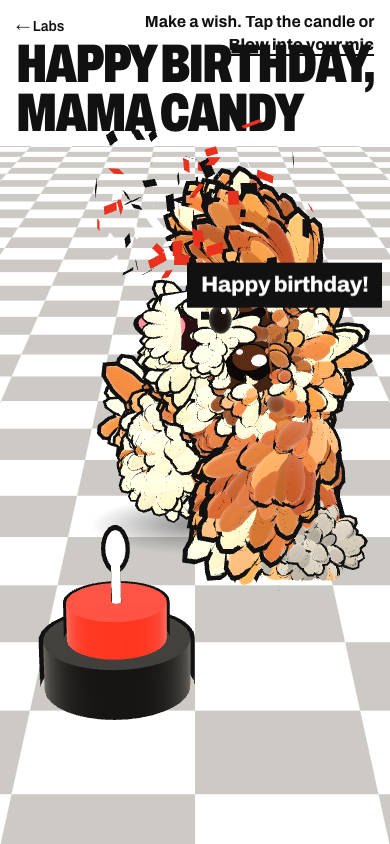
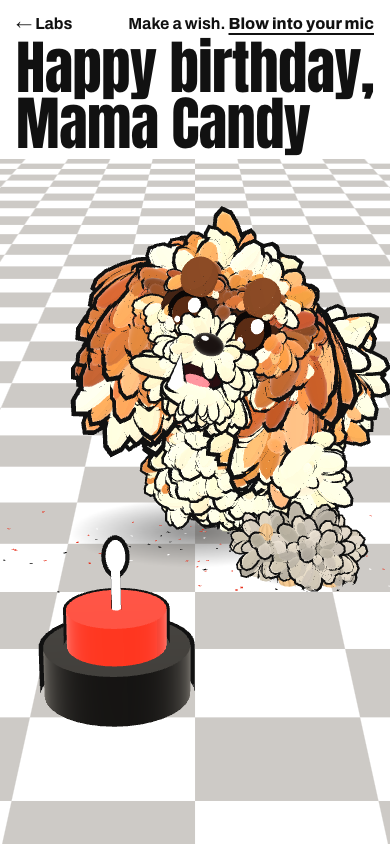
birthday-dog: behind-the-design page, corner link that slides in, index entry with cover, docs

diff --git a/birthday-dog/direction/index.html b/birthday-dog/direction/index.html
@@ -1,0 +1,171 @@
+<!doctype html>
+<html lang="en">
+<head>
+<meta charset="utf-8">
+<meta name="viewport" content="width=device-width, initial-scale=1, viewport-fit=cover">
+<meta name="theme-color" content="#07070a">
+<meta name="robots" content="noindex">
+<meta name="description" content="Behind the design of the birthday card for Mama Candy: three style directions, one winner, and a lot of fiddling with a shih tzu's leg.">
+<title>Behind the design · Chuck Rice Labs</title>
+<link rel="preconnect" href="https://fonts.googleapis.com">
+<link rel="preconnect" href="https://fonts.gstatic.com" crossorigin>
+<link href="https://fonts.googleapis.com/css2?family=Instrument+Serif:ital@0;1&family=JetBrains+Mono:wght@400;500&display=swap" rel="stylesheet">
+<style>
+:root { --bg:#07070a; --ink:#e8e6df; --dim:#8b8a93; --line:rgba(255,255,255,0.10); --serif:'Instrument Serif', Georgia, serif; --mono:'JetBrains Mono', ui-monospace, Menlo, monospace; }
+* { box-sizing: border-box; }
+html { background: var(--bg); color-scheme: dark; }
+body { margin: 0; min-height: 100vh; background: var(--bg); color: var(--ink); font: 400 14px/1.6 var(--mono); -webkit-font-smoothing: antialiased; }
+a { color: inherit; }
+:focus-visible { outline: 1px solid var(--ink); outline-offset: 3px; }
+.wrap { max-width: 720px; margin: 0 auto; padding: calc(env(safe-area-inset-top, 0px) + 20px) max(20px, env(safe-area-inset-right, 0px)) calc(env(safe-area-inset-bottom, 0px) + 56px) max(20px, env(safe-area-inset-left, 0px)); }
+.top { display: flex; justify-content: space-between; gap: 16px; font-size: 11px; letter-spacing: .16em; text-transform: uppercase; }
+.top a { color: var(--dim); text-decoration: none; transition: color .2s; }
+.top a:hover { color: var(--ink); }
+h1 { margin: clamp(48px, 10vw, 96px) 0 0; font: italic 400 clamp(44px, 9vw, 84px)/0.95 var(--serif); letter-spacing: -0.01em; text-wrap: balance; }
+.lede { margin: 24px 0 0; max-width: 54ch; color: var(--dim); font-size: 17px; line-height: 1.55; }
+section { margin-top: 44px; padding-top: 22px; border-top: 1px solid var(--line); }
+.n { font-size: 11px; letter-spacing: .16em; color: var(--dim); }
+h2 { margin: 6px 0 12px; font: italic 400 clamp(26px, 5vw, 34px)/1.1 var(--serif); }
+p { margin: 0 0 12px; max-width: 62ch; }
+ul { margin: 0 0 12px; padding-left: 1.2em; max-width: 62ch; }
+li { margin: 0 0 6px; }
+.say { color: var(--dim); font-size: 12px; }
+.say b { color: var(--ink); font-weight: 500; }
+figure { margin: 22px 0 8px; }
+figure img { display: block; width: 100%; height: auto; border: 1px solid var(--line); border-radius: 7px; background: rgba(14,14,19,.6); }
+figcaption { margin-top: 8px; color: var(--dim); font-size: 12px; max-width: 62ch; }
+.pair { display: grid; grid-template-columns: 1fr; gap: 14px; margin: 22px 0 8px; }
+.pair figure { margin: 0; }
+.three { display: grid; grid-template-columns: repeat(3, 1fr); gap: 12px; margin: 22px 0 8px; }
+.three figure { margin: 0; }
+@media (min-width: 620px) { .pair { grid-template-columns: 3fr 1fr; align-items: end; } }
+@media (max-width: 560px) { .lede { font-size: 15px; } .three { grid-template-columns: 1fr; } }
+.actions { display: flex; flex-wrap: wrap; gap: 14px 28px; margin-top: 44px; }
+.go { display: inline-block; font-size: 11px; letter-spacing: .16em; text-transform: uppercase; text-decoration: none; border-bottom: 1px solid rgba(255,255,255,.25); padding-bottom: 3px; }
+.go:hover { border-color: var(--ink); }
+footer { display: flex; justify-content: flex-end; margin-top: 40px; color: var(--dim); font-size: 11px; letter-spacing: .08em; }
+@media (prefers-reduced-motion: no-preference) { @view-transition { navigation: auto; } }
+::view-transition-old(root), ::view-transition-new(root) { animation-duration: .32s; }
+</style>
+</head>
+<body>
+<div class="wrap">
+  <nav class="top" aria-label="Primary">
+    <a href="../../">&larr; Labs</a>
+    <a href="../">The card &rarr;</a>
+  </nav>
+
+  <h1>Behind the design.</h1>
+  <p class="lede">A birthday card for Mama Candy, with Otto the shih tzu on it. The brief was one sentence: a rich, interactive card with a good 3D dog that reacts to you. Most of the work was working out what kind of card, then fiddling with a leg.</p>
+
+  <figure>
+    <img src="shots/04-pop-refined-desktop.png" alt="The finished card: a checkerboard floor, a cartoon shih tzu mid-bark with a Happy birthday speech bubble, and a lit cake at the bottom left" width="1280" height="800" loading="lazy">
+    <figcaption>Where it ended up. The candle is already lit when the page opens, and Otto sits side-on with his front left leg out.</figcaption>
+  </figure>
+
+  <section>
+    <div class="n">01</div>
+    <h2>Three directions first</h2>
+    <p>I didn't want to start from "a dog on a page". I gave the style question to the taste skill, a design rulebook for coding agents, and asked for three directions. Its rules did the useful boring work: one ground, one ink, one accent, big type, no decoration for decoration's sake. Three builds ran side by side, each with the same dog and the same brief, so the only thing that changed was the look.</p>
+    <div class="three">
+      <figure>
+        <img src="shots/01-checkerboard-pop-mobile.png" alt="Checkerboard Pop on a phone" width="390" height="844" loading="lazy">
+        <figcaption><b>Checkerboard Pop.</b> The rug from the photo as the stage. Flat, loud, one red.</figcaption>
+      </figure>
+      <figure>
+        <img src="shots/02-golden-hour-mobile.png" alt="Golden Hour Living Room on a phone" width="390" height="844" loading="lazy">
+        <figcaption><b>Golden Hour.</b> The lamp-lit sofa moment. Soft light, the most realistic fur.</figcaption>
+      </figure>
+      <figure>
+        <img src="shots/03-void-party-mobile.png" alt="Void Party on a phone" width="390" height="844" loading="lazy">
+        <figcaption><b>Void Party.</b> Same void as the rest of these labs, the dog floating like a cape.</figcaption>
+      </figure>
+    </div>
+    <p class="say"><b>Rule:</b> don't pick a style from a description. Build all of them and look.</p>
+  </section>
+
+  <section>
+    <div class="n">02</div>
+    <h2>Why Pop won</h2>
+    <p>Golden Hour was the prettiest and the most realistic, and it was too polite. Void Party was the safest because it matched everything else here. Pop was the one that made me smile on first load, which for a birthday card is the whole job. It also has a reason to exist: the checkerboard is lifted straight from the rug in the photo.</p>
+    <div class="pair">
+      <figure>
+        <img src="shots/01-checkerboard-pop-desktop.png" alt="First version of Checkerboard Pop on desktop, with a black and white floor and a large black dialog panel" width="1280" height="800" loading="lazy">
+        <figcaption>The first Pop. Bold, but the black floor shouted over the dog and the dialog box got in the way.</figcaption>
+      </figure>
+      <figure>
+        <img src="shots/01-checkerboard-pop-mobile.png" alt="First version of Checkerboard Pop on a phone" width="390" height="844" loading="lazy">
+      </figure>
+    </div>
+    <p class="say"><b>Rule:</b> pick the one you smile at, then fix what's loud.</p>
+  </section>
+
+  <section>
+    <div class="n">03</div>
+    <h2>Quieter floor, no dialog</h2>
+    <p>Two things bothered me straight away. The checkerboard was too harsh, so the squares got about twice as big and the dark ones went to a warm pale grey. And the dialog box with its buttons felt like a form on a birthday card.</p>
+    <p>It's gone. Instead a cake peeks up from the bottom edge. Tap the bottom of the screen and it slides in diagonally from the corner and the dog sits down to look at it. The cake is the button.</p>
+    <p class="say"><b>Rule:</b> if the interface is a box of buttons, hide it inside the scene.</p>
+  </section>
+
+  <section>
+    <div class="n">04</div>
+    <h2>Making it look like Otto</h2>
+    <p>The first dog was a very fluffy popcorn ball. Better than nothing, but not a shih tzu. A few rounds of notes fixed the face:</p>
+    <ul>
+      <li>More fluff around the eyes, so he looks like he's peeping out of it.</li>
+      <li>An underbite, which I then asked to be a bit less strong.</li>
+      <li>The right canine (on the left as you look at him) poking up over his lip.</li>
+    </ul>
+    <p>Then the body language. When the cake is out he sits, and turns side-on so you see him in profile. When nothing's happening he occasionally sprints off the left edge and comes back in from the right and stops. And Otto has a trademark awkward leg, his front left, so when he sits it sticks straight out sideways. That one took two attempts, because from the front his head covers it. Turning him a bit further towards the cake fixed it.</p>
+    <p class="say"><b>Rule:</b> the specific, slightly wrong detail is the likeness.</p>
+  </section>
+
+  <section>
+    <div class="n">05</div>
+    <h2>Candle lit, mic ready</h2>
+    <p>The card opens with the candle already lit, so you don't have to work out what to do. You can blow it out by tapping the cake, or press "Blow into your mic" and actually blow. The browser only asks for the microphone when you press that button. Blow it out and there's confetti, a bark and a fresh wish.</p>
+    <p>The toy was too hard to grab, so touching anywhere near it now counts, not just the plush itself.</p>
+    <p class="say"><b>Rule:</b> be generous with where a finger lands.</p>
+  </section>
+
+  <section>
+    <div class="n">06</div>
+    <h2>Floor, paws and a slider</h2>
+    <p>Sitting made his paws sink into the floor. Instead of lowering the floor (which would have meant moving the cake and the toy too) I lifted the dog. I couldn't judge the height by eye from a description, so I added two sliders, one for sitting and one for standing, and I set them by hand: 0.35 sitting, 0.3 standing. Then the sliders came out.</p>
+    <figure>
+      <img src="shots/05-height-tuning-sliders-desktop.png" alt="The card with two height sliders at the bottom left reading 0.35 and 0.30" width="1280" height="800" loading="lazy">
+      <figcaption>The temporary sliders, with the numbers that stuck. The dog is mid-jump from the opening hello.</figcaption>
+    </figure>
+    <p class="say"><b>Rule:</b> when you can't describe it, give yourself a knob.</p>
+  </section>
+
+  <section>
+    <div class="n">07</div>
+    <h2>Five fonts, then Anton</h2>
+    <p>The headline began in a heavy condensed grotesk, Archivo. I asked for five alternatives, picked by the same rules (one family, tight tracking, two lines at every width), and added a preview with a caps toggle so I could compare them on the real page. Anton in sentence case won: tall, loud, and friendlier in lowercase. The Labs link and the hint line up along the top now, and the hint is shortened to "Make a wish. Blow into your mic" so it fits on a phone.</p>
+    <div class="pair">
+      <figure>
+        <img src="shots/06-font-picker-anton-sentence-desktop.png" alt="The font picker at the bottom right with Anton selected and the headline in sentence case" width="1280" height="800" loading="lazy">
+        <figcaption>The picker, with Anton in sentence case selected.</figcaption>
+      </figure>
+      <figure>
+        <img src="shots/06-font-picker-anton-sentence-mobile.png" alt="The same on a phone" width="390" height="844" loading="lazy">
+      </figure>
+    </div>
+    <p class="say"><b>Rule:</b> choose a typeface on the real page, not in a specimen.</p>
+  </section>
+
+  <section>
+    <div class="n">08</div>
+    <h2>What it is, and isn't</h2>
+    <p>The dog isn't a model. There's no 3D file: Otto is built in code out of a few hundred fluffy tufts, with ears and a tail on springs, so he reacts instead of looping an animation. It's stylised, not anatomical, and that's on purpose.</p>
+    <p>I've only run it in a headless browser so far. The mic path is untested, and I haven't tried it on a real phone yet.</p>
+    <p class="say"><b>Rule:</b> say what you haven't tested.</p>
+  </section>
+
+  <div class="actions"><a class="go" href="../../">&larr; Back to labs</a><a class="go" href="../">The card &rarr;</a></div>
+  <footer>&copy; 2026 Chuck Rice</footer>
+</div>
+</body>
+</html>

diff --git a/birthday-dog/index.html b/birthday-dog/index.html
@@ -39,6 +39,14 @@
   .hint .mic:active{transform:translateY(1px)}
   .hint .mic:focus-visible{outline:3px solid var(--ink);outline-offset:3px}
   .hint .mic[hidden]{display:none}
+  .notes{position:fixed;z-index:5;right:var(--m);bottom:calc(var(--m) * .75);display:inline-block;padding:12px 16px;
+    background:var(--ink);color:var(--paper);font-weight:800;font-size:16px;line-height:1;text-decoration:none;
+    transform:translate(130%,130%);opacity:0;visibility:hidden;
+    transition:transform .45s cubic-bezier(.2,.8,.2,1),opacity .3s ease,visibility 0s linear .45s}
+  .notes.in,.notes:focus-visible{transform:none;opacity:1;visibility:visible;transition:transform .45s cubic-bezier(.2,.8,.2,1),opacity .3s ease,visibility 0s}
+  .notes:hover{background:var(--accent)}
+  .notes:focus-visible{outline:3px solid var(--ink);outline-offset:3px}
+  @media (prefers-reduced-motion:reduce){.notes{transform:none;transition:opacity .2s ease,visibility 0s linear .2s}.notes.in,.notes:focus-visible{transition:opacity .2s ease,visibility 0s}}
   .sr{position:absolute;width:1px;height:1px;overflow:hidden;clip:rect(0 0 0 0);white-space:nowrap}
 
   .bubble{position:fixed;left:0;top:0;z-index:4;pointer-events:none;background:var(--ink);color:#fff;font-weight:800;
@@ -65,6 +73,7 @@
 <div class="bubble" id="bubble" aria-hidden="true">Woof.</div>
 <p id="fallback">Your browser could not draw the dog, so here is the short version: happy birthday, Mama Candy.</p>
 <p class="hint rise" style="--i:3" id="hint"><span id="hintText"></span> <button class="mic" id="micBtn" type="button" hidden>Blow into your mic</button></p>
+<a class="notes" id="notes" href="direction/">Behind the design &rarr;</a>
 <p class="sr" id="status" aria-live="polite"></p>
 
 <script type="importmap">
@@ -1058,6 +1067,20 @@ requestAnimationFrame(frame);
 if (!reduced) setTimeout(() => { jump(1); D.wagBoost = 1.8; say('Happy birthday!', 2); burst(headWorld(), 90, 1); }, 900);
 else setTimeout(() => say('Happy birthday!', 2.5), 600);
 
+/* "Behind the design" slides in from the bottom-right corner while a mouse is near it */
+{
+  const notes = $('notes');
+  let overNotes = false;
+  notes.addEventListener('pointerenter', () => { overNotes = true; });
+  notes.addEventListener('pointerleave', () => { overNotes = false; });
+  addEventListener('pointermove', (e) => {
+    if (e.pointerType !== 'mouse') return;
+    const near = e.clientX > innerWidth - 300 && e.clientY > innerHeight - 170;
+    notes.classList.toggle('in', near || overNotes);
+  });
+  document.addEventListener('pointerleave', () => notes.classList.remove('in'));
+  addEventListener('blur', () => notes.classList.remove('in'));
+}
 window.__pop = { cake, step(n = 1, dt = 1 / 60) { for (let i = 0; i < n; i++) { T += dt; updateToy(dt); updateDog(dt); updateCake(dt); updateConfetti(dt); updateBubble(dt); } renderer.render(scene, camera); }, dog, toy, D, jump, pat, burst, startWish, blowOut, cakeTap, camera, view, CONFIG };
 </script>
 </body>

diff --git a/index.html b/index.html
@@ -178,6 +178,16 @@ var LABS = [
     glows: [['#c98a4e', '30%', '40%'], ['#28d0e6', '70%', '62%']]
   },
   {
+    path: 'birthday-dog/',
+    title: 'Happy Birthday, Mama Candy',
+    blurb: 'A birthday card with Otto on it. Poke him, throw his toy, blow out the candle (you can actually blow). He has a trademark awkward leg.',
+    tags: ['three.js', 'WebGL', 'Made with Sonnet 5.5'],
+    date: '2026-10-22',
+    cover: 'birthday-dog/cover.png',
+    notes: 'birthday-dog/direction/',
+    glows: [['#e8321e', '28%', '70%'], ['#cdcac6', '72%', '34%']]
+  },
+  {
     path: 'hackers-delight/',
     title: 'Hacker\'s Delight',
     blurb: 'A hidden one, for anyone who kept scrolling. It\'s the 404 page: a night sky that draws a confused man out of its own stars.',

diff --git a/CLAUDE.md b/CLAUDE.md
@@ -35,6 +35,13 @@ Interactive RuneScape skill capes (herblore, mining, cooking, magic) drawn as la
 ## windows-pipes lab
 Windows XP 3D Pipes screensaver in raw WebGL2, no dependencies. Instanced cylinders and spheres (two draw calls), pipes grow on a 16^3 grid, camera drifts toward the growing tips. Same dot-field background as capes, no shooting stars. Bottom-right controls: palette swatches (restart on change, stored in localStorage `pipes:palette`), Next, FPS readout (also `P`), Full screen (also `F`; hidden where unsupported). Tunables in `CONFIG`. Chuck's framing: an experiment in performance and nostalgia, "not much to write yet"; notes page at `windows-pipes/direction/`. Untested on real phones: use the FPS readout.
 
+## birthday-dog lab
+Birthday card for Mama Candy with Otto the shih tzu (three.js 0.160.0 from jsDelivr via import map: the one lab with a CDN dependency; vendor it if that matters). Not a void lab: its own look, Pop direction (white + pale grey checker floor, near-black ink, one red accent `#e8321e`, headline in Anton sentence case, Archivo for UI). Dog is procedural (instanced fur tufts, toon shader, ink outlines), no model files. Tunables in `CONFIG` at the top of the script (`sitLift` 0.35 / `standLift` 0.3 were set by hand, `awkwardLeg` = front left, `sitTurn`, `dashEvery`, `floorDark`, `tile`, `cakePeekAt`, `cakeLitAt`, mic `blowLevel`/`blowTime`).
+- Flow: loads with the candle lit and Otto sitting side-on to the cake. Blow it out by tapping the cake/bottom of the screen or the "Blow into your mic" button (mic permission only on that button). Cake then peeks from the bottom-left; tapping the bottom brings it back diagonally and lights it. Idle: Otto sometimes sprints off left and back in from the right. Toy is draggable (screen-space grab radius ~60-70px). C key = cake.
+- "Behind the design" link slides in diagonally from the bottom-right corner when a mouse is near it (not shown on touch); page at `birthday-dog/direction/`, screenshots in `direction/shots/`. The three original directions (pop, golden, void) are archived under `birthday-dog/directions/` and tag `birthday-dog-three-directions`; all `noindex`.
+- Decisions Chuck made: Pop over Golden Hour/Void Party; milder, larger checker; no dialog (cake is the control); underbite slightly softer; Otto's front-left leg sticks out sideways; Anton sentence case; hint is "Make a wish. Blow into your mic".
+- Debug: `window.__pop` exposes the dog, cake and a `step()` for headless testing. Untested: real phone, real mic.
+
 ## hackers-delight lab (hidden)
 Easter egg. The `LABS` entry has `secret: true`: its row is `hidden` until the visitor, at the bottom of the index, makes 3 separate downward pushes (wheel gestures begun at the bottom, touch drags, or PageDown/End/Space/ArrowDown). Reveal flickers in, scrolls to it, and is remembered in localStorage `labs:found`; a quiet "Hide again" button on its row hides it and clears that flag. The footer nudges on each push. Not listed in the README on purpose. The lab itself is the 404 page for now (placeholder): `hackers-delight/index.html` is a byte-for-byte copy of `404.html`, so edit only `404.html`: `node tools/sync-404.mjs` copies it, and the pre-commit hook in `tools/hooks` does that automatically (enable once per clone with `git config core.hooksPath tools/hooks`); notes page is about doing PortSwigger Web Security Academy labs (Chuck has finished server-side vulnerabilities and all three kinds of XSS: reflected, stored, DOM-based) and why hidden things delight practitioners, like game easter eggs. Both pages are `noindex`.
 

diff --git a/README.md b/README.md
@@ -12,3 +12,4 @@ Each lab is a folder with its own `index.html`. Register it in the `LABS` array 
 | --- | --- |
 | Chuck's Capes of Accomplishment | `/rs2-capes/` |
 | Pipes (Windows XP screensaver) | `/windows-pipes/` |
+| Happy Birthday, Mama Candy (birthday card) | `/birthday-dog/` |
